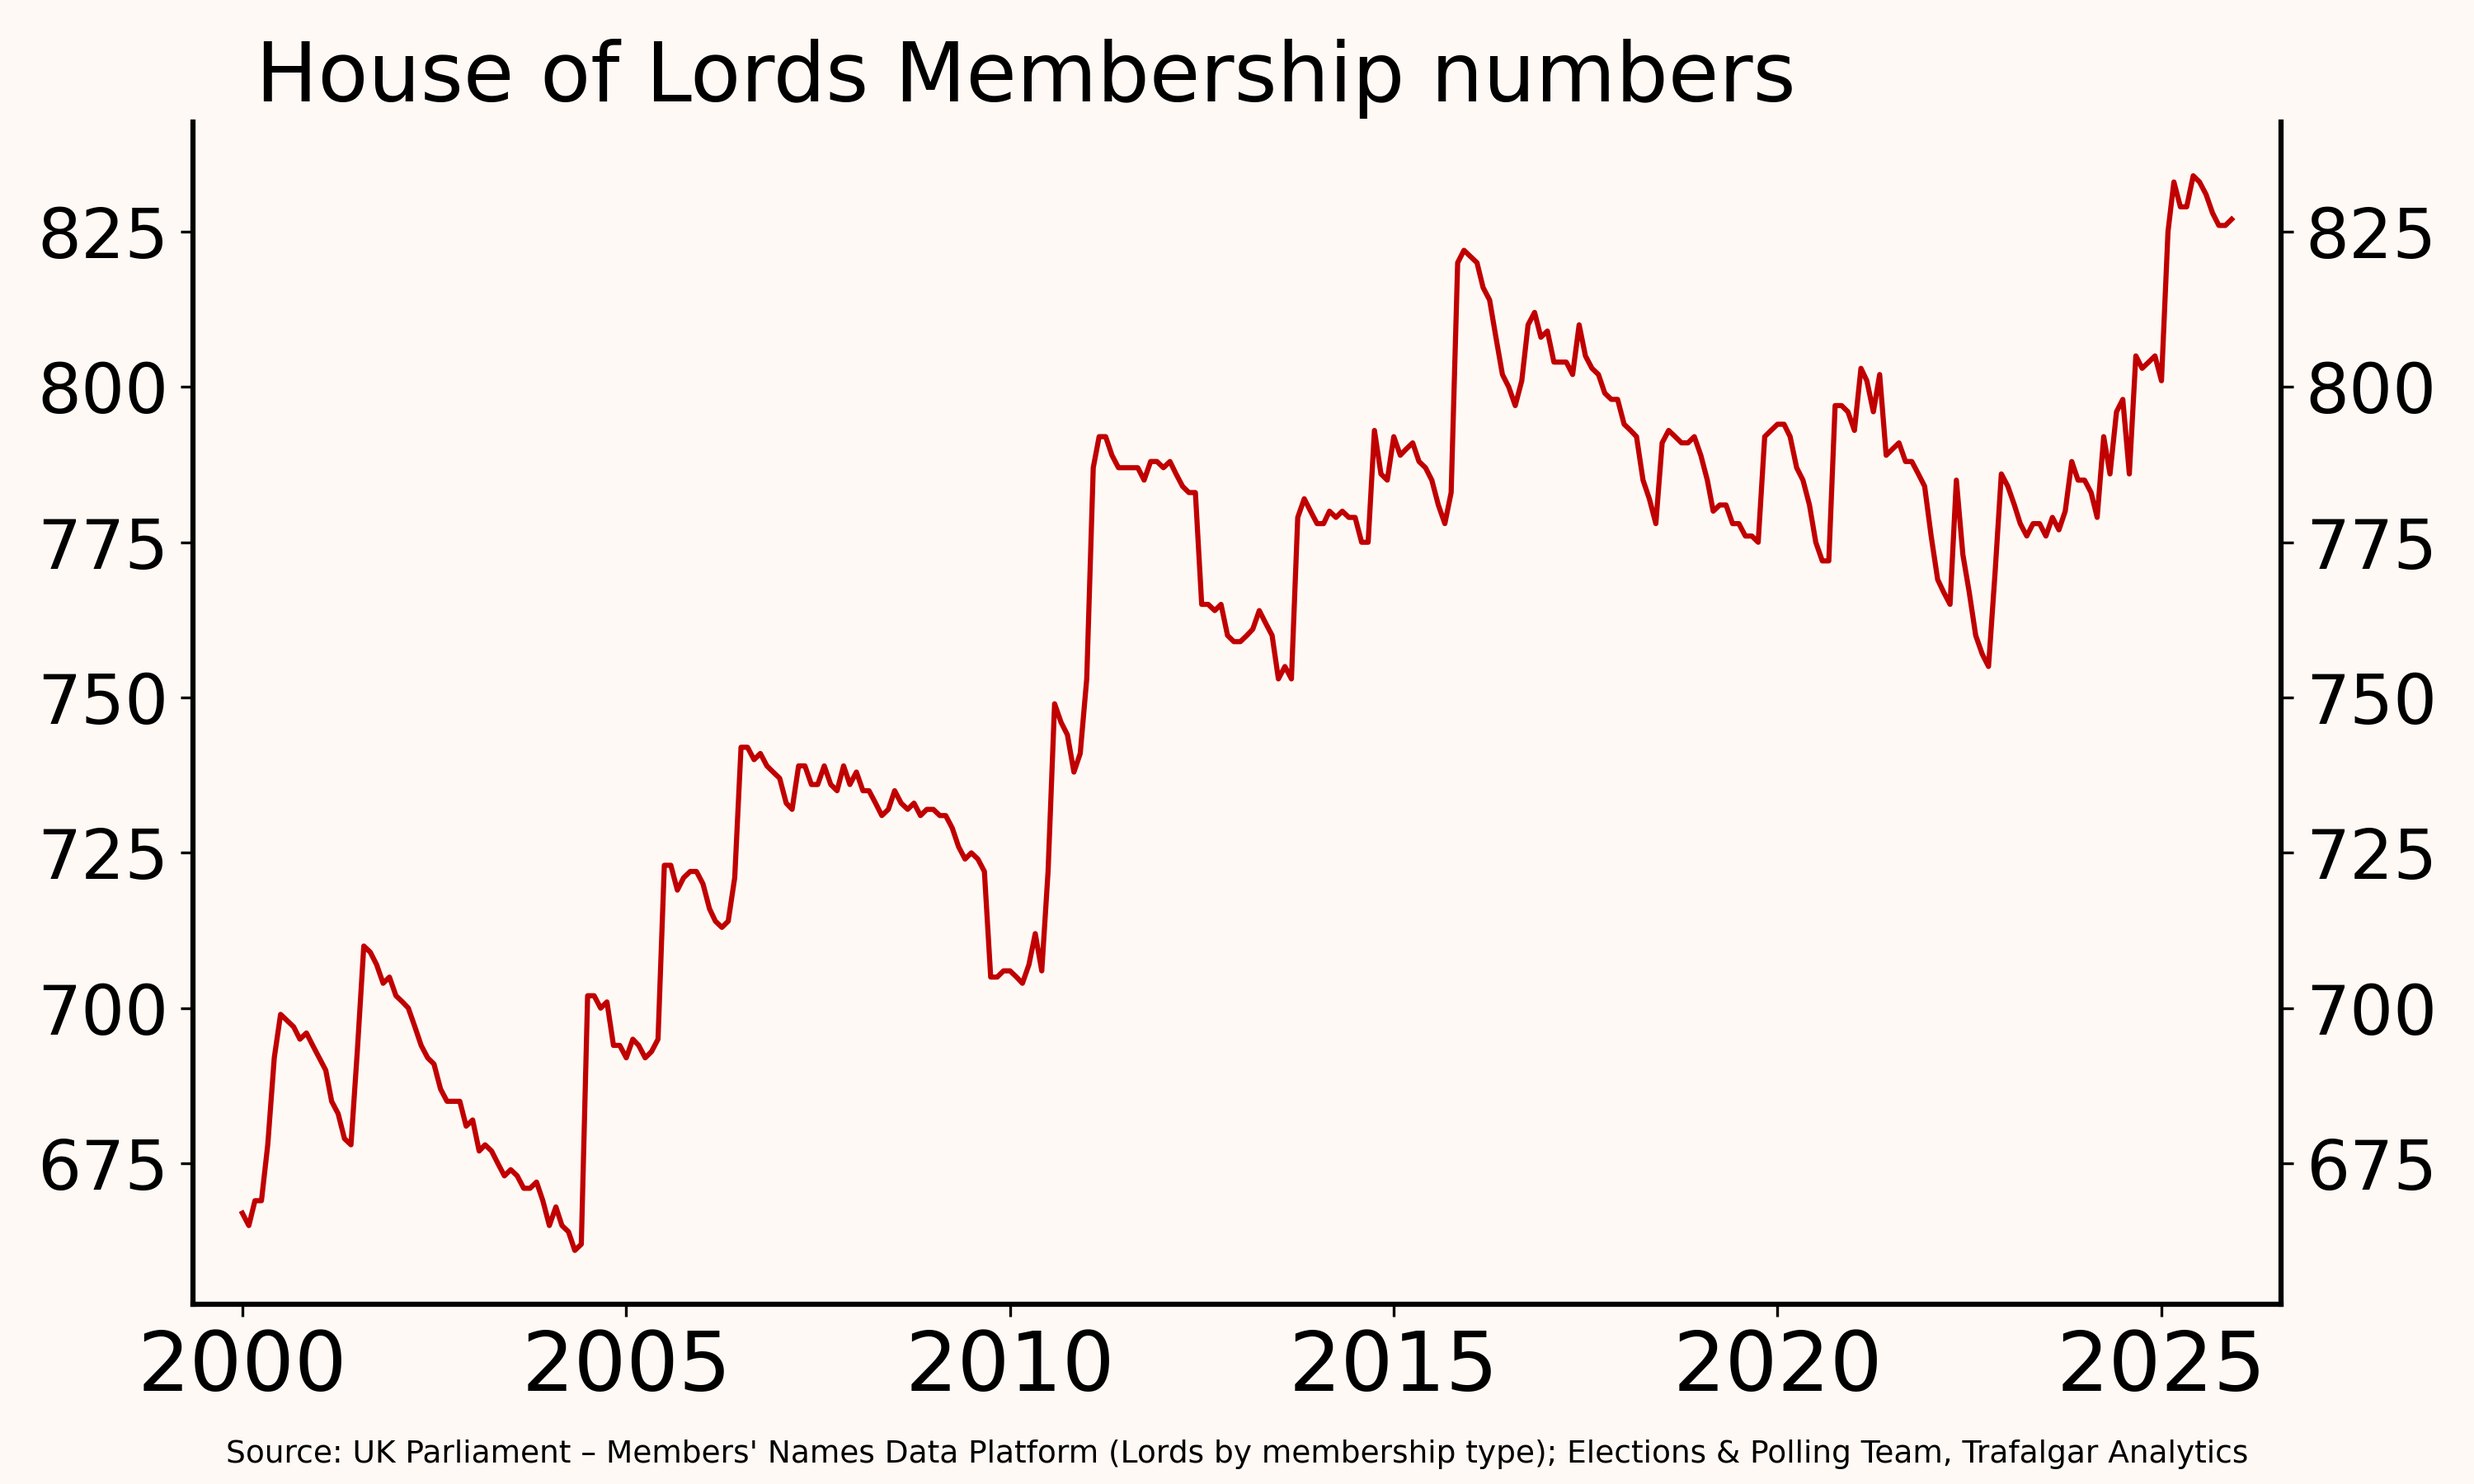
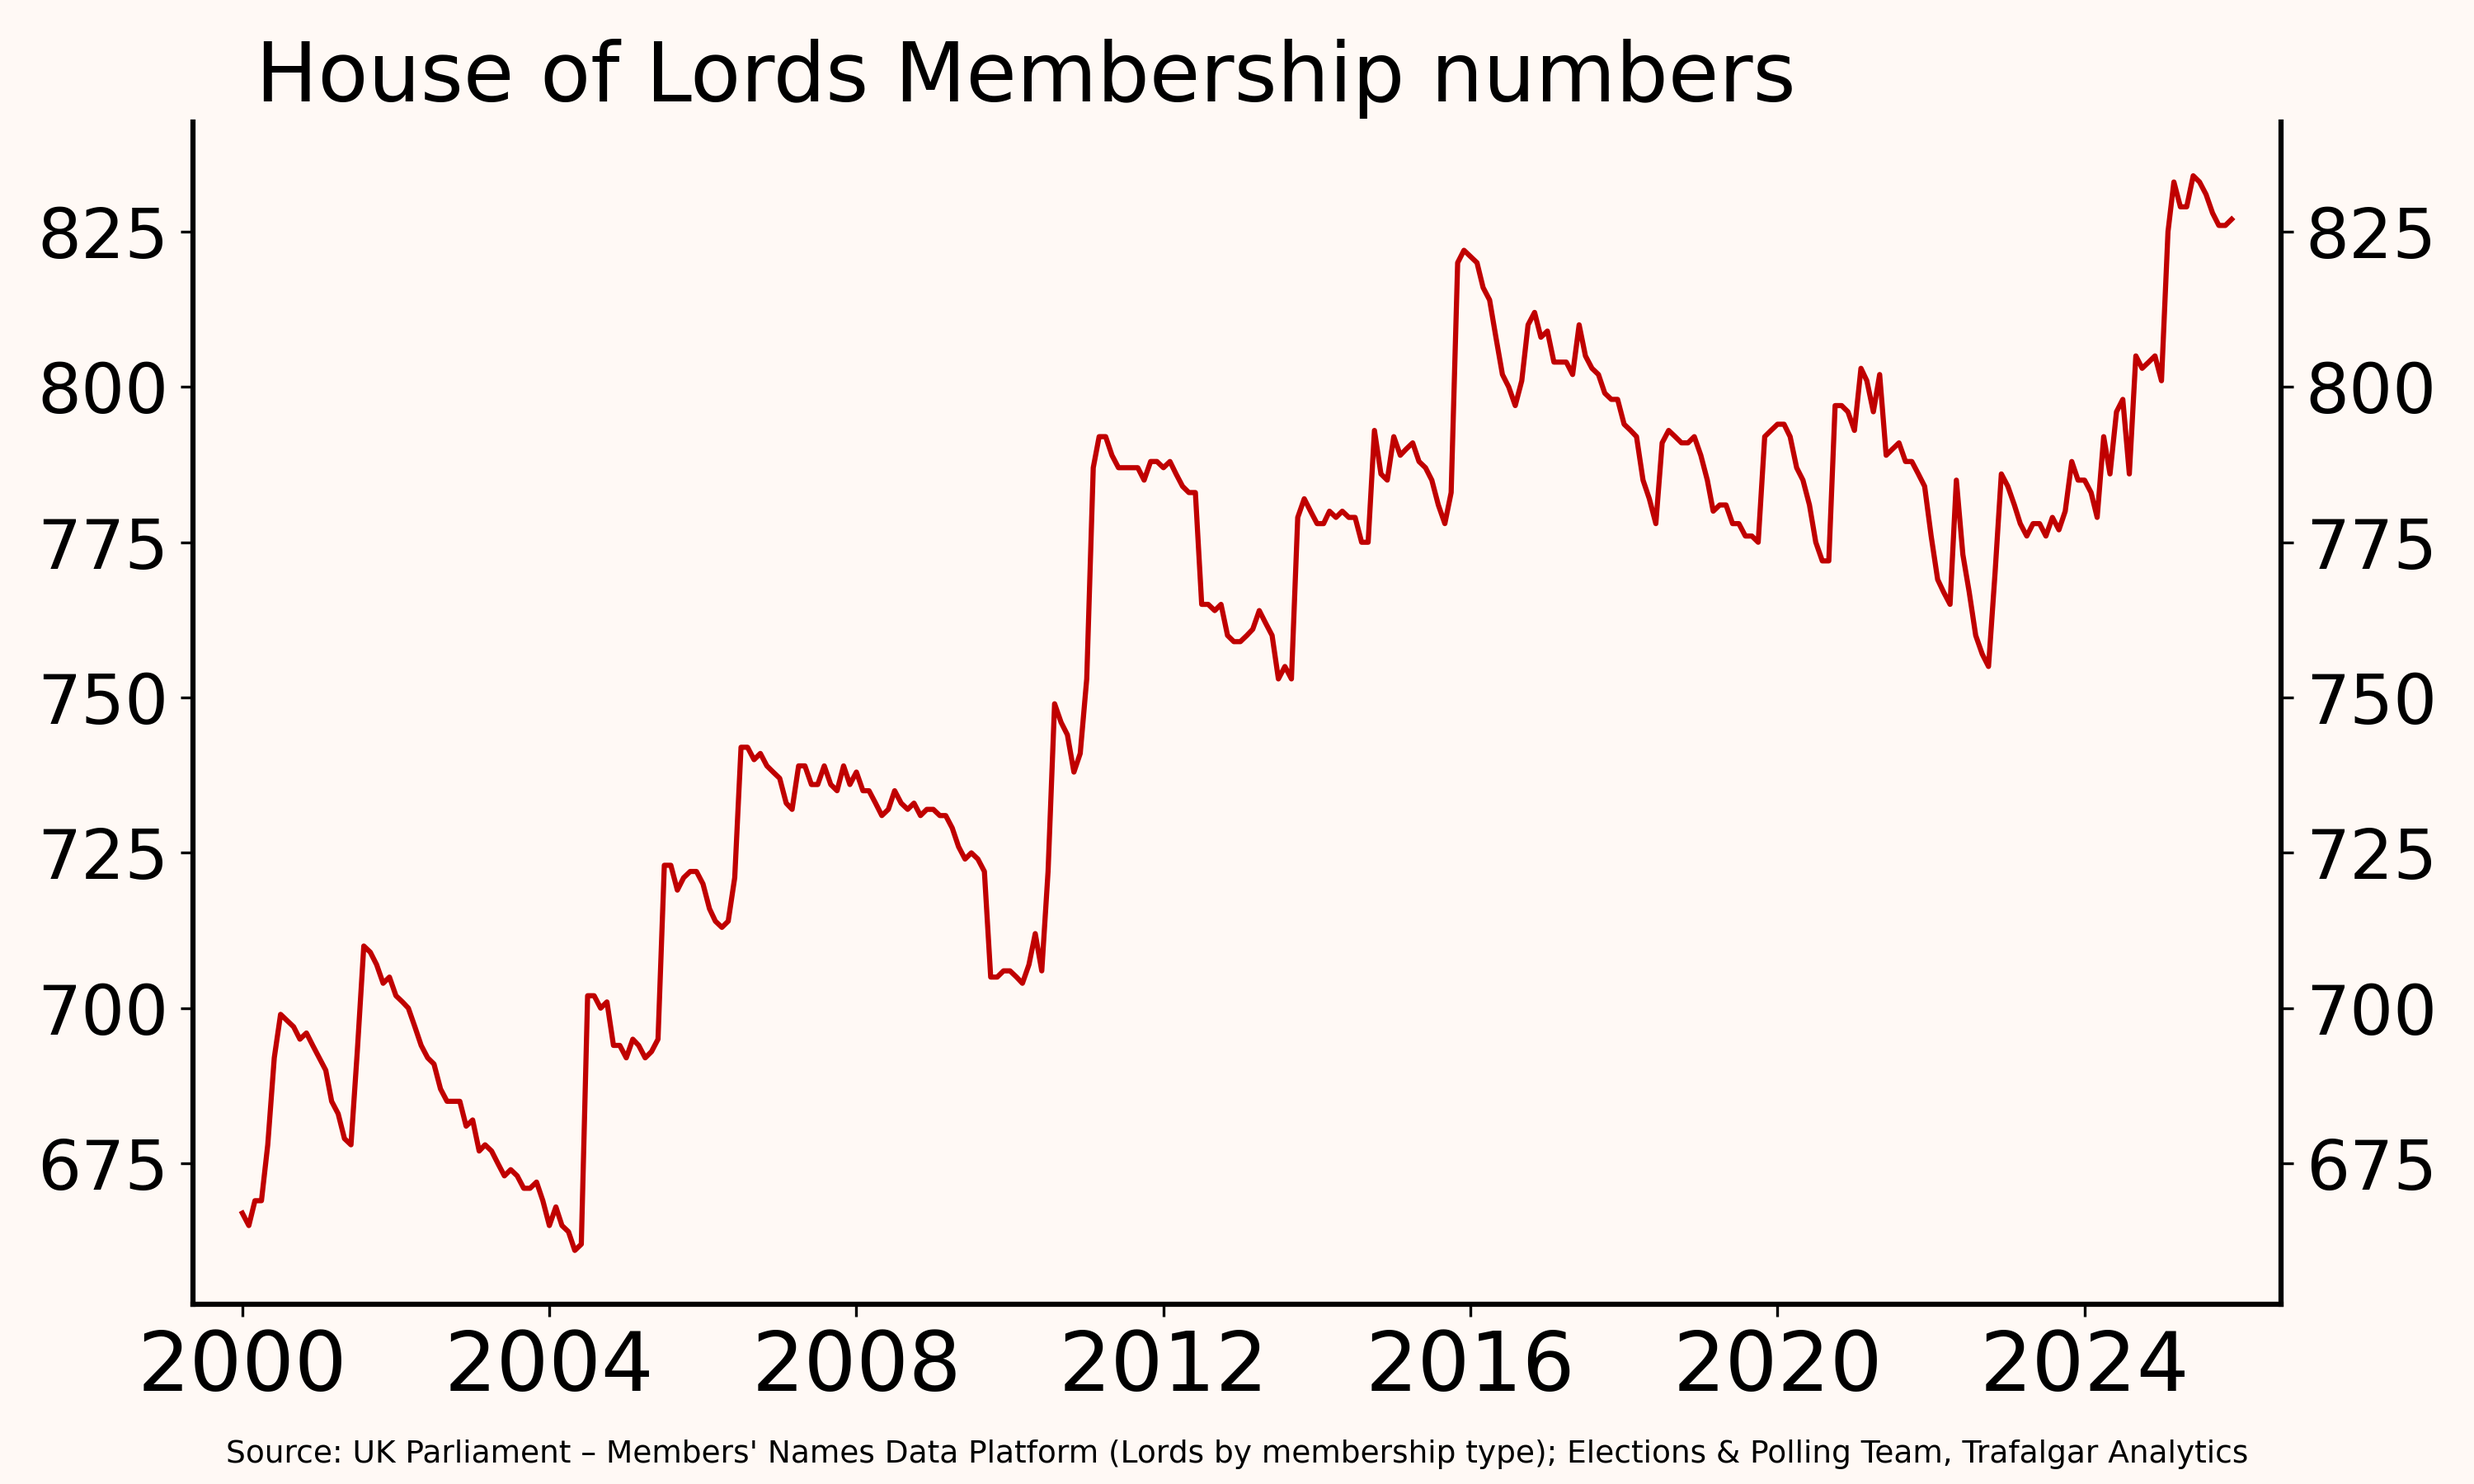
refactor

Changed region(s): [[0.186, 0.8711, 0.651, 0.9644], [0.806, 0.8711, 0.93, 0.9644]]

diff --git a/scripts/plot.py b/scripts/plot.py
@@ -50,7 +50,7 @@ ax_right.set_ylim(ax.get_ylim())
 
 
 ax.set_title('House of Lords Membership numbers', x=0.03, loc='left',fontsize=24)
-#ax.xaxis.set_major_locator(mdates.YearLocator(base=5))
+ax.xaxis.set_major_locator(mdates.YearLocator(base=5))
 
 
 ax.tick_params(axis='x', labelsize=24)
